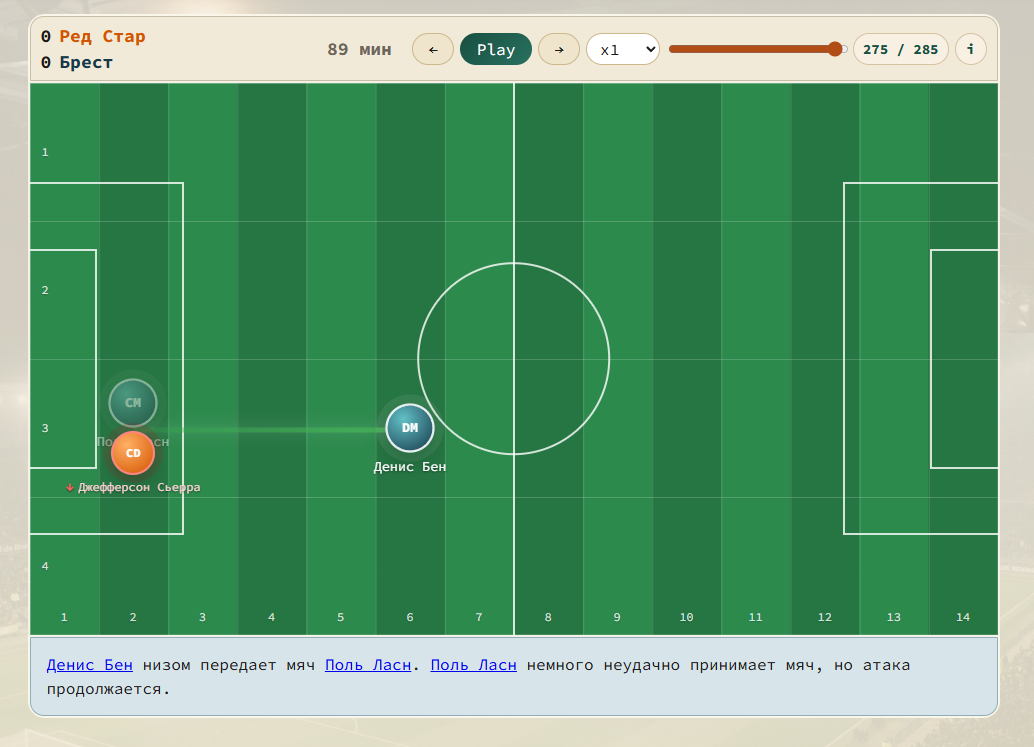
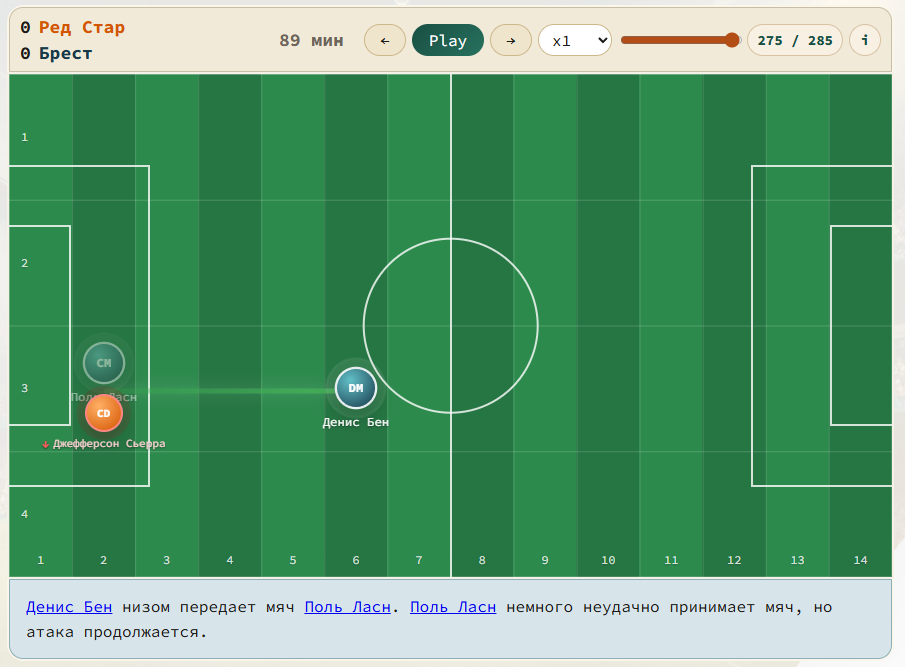
feat: change background (#28)

diff --git a/visualizator.html b/visualizator.html
@@ -35,10 +35,7 @@
       margin: 0;
       color: var(--text);
       font-family: "Source Code Pro", monospace;
-      background:
-        linear-gradient(rgba(247, 241, 228, 0.84), rgba(239, 231, 209, 0.9)),
-        url("https://images.unsplash.com/photo-1679391029864-d46f366a456b?q=80&w=2070&auto=format&fit=crop&ixlib=rb-4.1.0&ixid=M3wxMjA3fDB8MHxwaG90by1wYWdlfHx8fGVufDB8fHx8fA%3D%3D");
-      background-position: center;
+      background: rgba(255, 255, 255, 0);
       background-size: cover;
       background-attachment: fixed;
     }